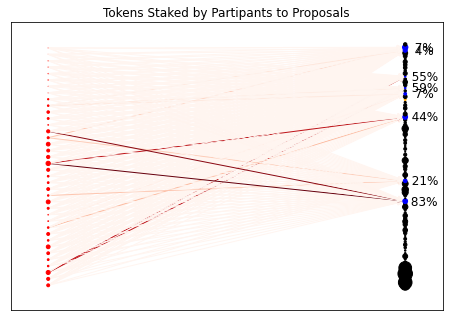
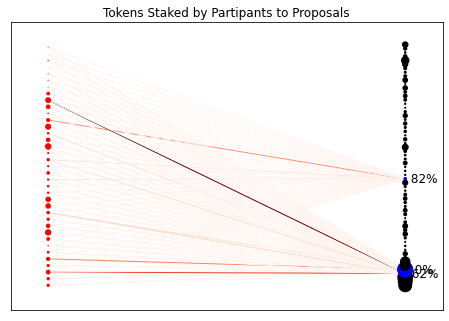
adding model 3

diff --git a/v3/model/model/system.py b/v3/model/model/system.py
@@ -29,7 +29,10 @@ def driving_process(params, step, sL, s):
     supporters = get_edges_by_type(candidate_subgraph, 'support')
     
     len_parts = len(participants)
-    supply = s['supply'] 
+    supply = s['effective_supply'] 
+    
+    funds_arrival = supply * 0.0001
+
     expected_holdings = .01*supply/len_parts
     if new_participant:
         h_rv = expon.rvs(loc=0.0, scale=expected_holdings)
@@ -87,7 +90,7 @@ def update_network(params, step, sL, s, _input):
 
     network = s['network']
     funds = s['funds']
-    supply = s['supply']
+    supply = s['effective_supply']
 
     new_participant = _input['new_participant'] 
     new_proposal = _input['new_proposal']
@@ -129,5 +132,32 @@ def increment_funds(params, step, sL, s, _input):
     
     key = 'funds'
     value = funds
+    
+    return (key, value)
+
+def increment_supply(params, step, sL, s, _input):
+    '''
+    Increase funds by the amount of the new particpant's funds.
+    '''
+    supply = s['effective_supply']
+    funds_arrival = _input['funds_arrival']
+
+    #increment funds
+    supply = supply + funds_arrival   #/2     * 0.0001
+    
+    key = 'supply'
+    value = supply
+    
+    return (key, value)
+
+def fund_arrival_check(params, step, sL, s, _input):
+    '''
+    Increase funds by the amount of the new particpant's funds.
+    '''
+    
+    funds_arrival = _input['funds_arrival']
+    
+    key = 'funds_arrival'
+    value = funds_arrival
     
     return (key, value)

diff --git a/v3/model/model/sys_params.py b/v3/model/model/sys_params.py
@@ -6,14 +6,14 @@ initial_values = {
     'n': 30, #initial participants
     'm': 7, #initial proposals
     'initial_funds': 4867.21, # in honey, as of 8-5-2020
-    'supply': 22392.22, # Honey supply balance as of 8-5-2020  
+    'supply': 22392.22, # Honey total supply balance as of 8-5-2020  
 }
 
 # Parameters
 sys_params = {
     'beta': 0.2, # maximum share of funds a proposal can take
     'rho': 0.0025, # tuning param for the trigger function
-    'alpha': 1/2**3, # timescale set in days with 3 day halflife (from comments in contract comments)
+    'alpha': 0.875, # timescale set in days with 3 day halflife (from comments in contract comments)
     'sensitivity': .75,
     'tmin': 0, #unit days; minimum periods passed before a proposal can pass
     'min_supp': 1, #number of tokens that must be stake for a proposal to be a candidate

diff --git a/v3/model/config.py b/v3/model/config.py
@@ -4,7 +4,7 @@ from datetime import timedelta
 import numpy as np
 from typing import Dict, List
 
-from cadCAD.configuration import append_configs
+from cadCAD.configuration import Experiment
 from cadCAD.configuration.utils import bound_norm_random, ep_time_step, config_sim, access_block
 
 from .genesis_states import genesis_states
@@ -21,8 +21,9 @@ seeds = {
     'p': np.random.RandomState(1),
 }
 
+exp = Experiment()
 
-append_configs(
+exp.append_configs(
     sim_configs=sim_config,
     initial_state=genesis_states,
     seeds=seeds,

diff --git a/v3/model/genesis_states.py b/v3/model/genesis_states.py
@@ -7,6 +7,7 @@ genesis_states = {
                                             initial_values['supply']),
                 'funds':initial_values['initial_funds'],
                 'sentiment': initial_values['initial_sentiment'],
-                'supply': initial_values['supply']
+                'effective_supply': initial_values['supply'],
+                'funds_arrival': 0
 
 }

diff --git a/v3/model/partial_state_update_block.py b/v3/model/partial_state_update_block.py
@@ -12,6 +12,8 @@ partial_state_update_blocks = [
         'variables': {
             'network': update_network,
             'funds':increment_funds,
+            'effective_supply': increment_supply,
+            'funds_arrival' : fund_arrival_check,
         }
     },
     {

diff --git a/v3/model/model/proposals.py b/v3/model/model/proposals.py
@@ -11,7 +11,7 @@ def trigger_function(params, step, sL, s):
     '''
     network = s['network']
     funds = s['funds']
-    supply = s['supply']
+    supply = s['effective_supply']
     proposals = get_nodes_by_type(network, 'proposal')
     
     accepted = []
